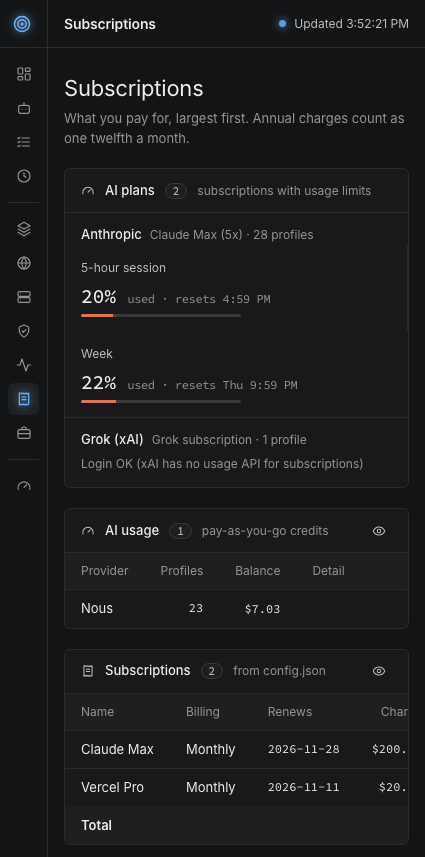
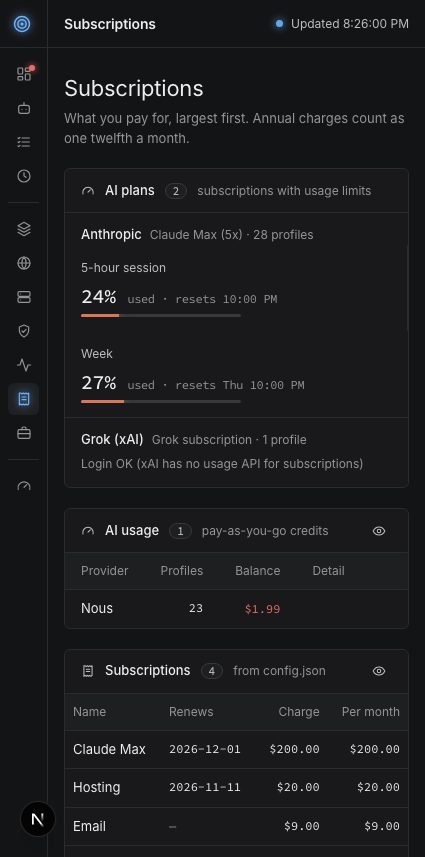
fix(vendors,subscriptions): sort a heavy vendor up only on a live incident, fit Subscriptions on a phone, correct SETUP.md on the picker (collector#78)

diff --git a/lib/vendors.ts b/lib/vendors.ts
@@ -15,10 +15,8 @@ export const vendorHit = (v: { state: string }) => VENDOR_RANK[v.state] <= VENDO
 
 /** The APIs page's order: a vendor we depend heavily on whose status page shows an incident first, then the vendors
  * with the worst state, then by name. */
-export function vendorOrder<T extends { name: string; state: string; incidents?: unknown[]; criticality?: string }>(
-  rows: T[],
-): T[] {
-  const heavy = (v: T) => Number(HEAVY_CRITICALITY.has(v.criticality || "") && (v.incidents || []).length > 0);
+export function vendorOrder<T extends { name: string; state: string; criticality?: string }>(rows: T[]): T[] {
+  const heavy = (v: T) => Number(HEAVY_CRITICALITY.has(v.criticality || "") && vendorHit(v));
   return [...rows].sort(
     (a, b) => heavy(b) - heavy(a) || VENDOR_RANK[a.state] - VENDOR_RANK[b.state] || a.name.localeCompare(b.name),
   );

diff --git a/tests/config-values.test.ts b/tests/config-values.test.ts
@@ -61,6 +61,11 @@ describe("a vendor's criticality (collector#78)", () => {
     ).toEqual(["Stripe", "Railway", "Vercel"]);
   });
 
+  it("keeps a heavy vendor whose only incident is stale below a live outage", () => {
+    const github = { ...vendor("GitHub", "critical"), incidents: [{ name: "Old notice", impact: "none", url: "" }] };
+    expect(names([github, vendor("Stripe", "medium", true)])).toEqual(["Stripe", "GitHub"]);
+  });
+
   it("refuses a criticality outside the allowed values", () => {
     expect(badConfigValues({ vendors: [{ name: "GitHub", url: "u", criticality: "urgent" }] })).toEqual([
       `vendors[0] (GitHub).criticality "urgent" is not one of ${API_CRITICALITIES.join(", ")}`,

diff --git a/app/globals.css b/app/globals.css
@@ -1280,6 +1280,17 @@
       display: none;
     }
   }
+  /* Phones: Subscriptions keeps Name, Renews, Charge and Per month, on tighter padding; Billing and Per year go
+     (collector#78). */
+  @media (max-width: 700px) {
+    table.subs tr > :is(th, td):is(:nth-child(2), :nth-child(6)) {
+      display: none;
+    }
+    table.subs :is(th, td) {
+      padding-left: 8px;
+      padding-right: 8px;
+    }
+  }
   tr.row {
     cursor: pointer;
   }

diff --git a/components/pages.tsx b/components/pages.tsx
@@ -470,7 +470,7 @@ export function SubscriptionsPage() {
           </div>
         </PanelHead>
         <div className="wrap">
-          <table>
+          <table className="subs">
             <thead>
               <tr>
                 <th>Name</th>

diff --git a/SETUP.md b/SETUP.md
@@ -86,8 +86,8 @@ What to look at — read-only, and only what exists on this machine
     `{"owner/repo": {"stage": "production"}}`. `stage` is where each one stands — `idea`, `development`, `testing`,
     `production` or `archived` — taken from what you read (the repo's own README, the person's words), never
     guessed; a repo with no stage shows nothing on the page. Get the exact name from inside the repo:
-    `gh repo view --json nameWithOwner`. (A plain list of `owner/repo` strings works too, and that is what the
-    "Choose repos" button writes.)
+    `gh repo view --json nameWithOwner`. The "Choose repos" button writes this map too, keeping each stage; a plain
+    list of `owner/repo` strings is still read, with no stages.)
   - `subscriptions`: what the person pays for, `{"name": "Vercel", "amount": 20, "billing": "monthly", "renews":
     "2026-12-01"}` — only from something you can read on this machine (an invoice, a receipts folder, a billing note
     in a repo). `renews` is the day it next charges, from that invoice; leave it out when the invoice does not say.
